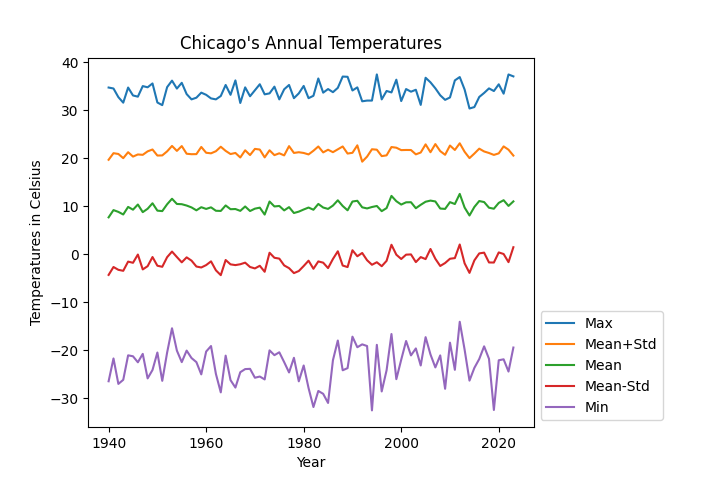
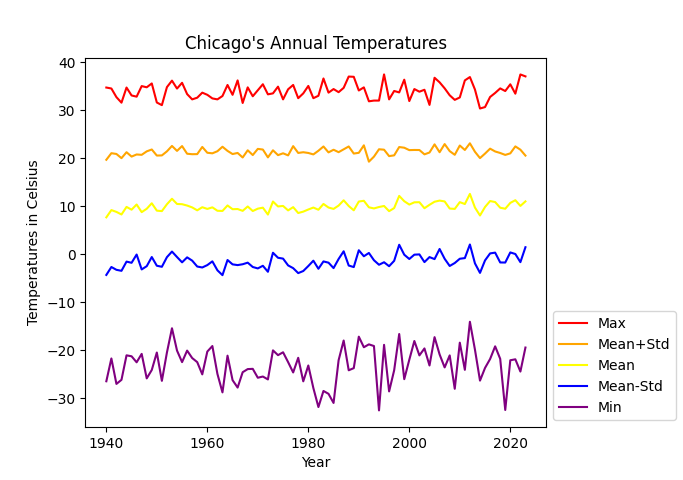
Add files via upload

diff --git a/final/view_data.py b/final/view_data.py
@@ -21,21 +21,30 @@ conn.close()
 
 annual_df = annual_df.drop('Std', axis=1)
 x = annual_df['Year']
-for column in annual_df.columns[1:]:
-    plt.plot(x, annual_df[column], linestyle='-', label=column)
+
 plt.xlabel('Year')
 plt.ylabel('Temperatures in Celsius')
 plt.title('Chicago\'s Annual Temperatures')
-plt.legend(loc='lower left', bbox_to_anchor=(1, 0))
+plt.plot(x, annual_df['Max'], color='#FF0000', label='Max') # Hot Red
+plt.plot(x, annual_df['Mean+Std'], color='#FFA500', label='Mean+Std') # Warm Orange
+plt.plot(x, annual_df['Mean'], color='#FFFF00', label='Mean') # Neutral Yellow
+plt.plot(x, annual_df['Mean-Std'], color='#0000FF', label='Mean-Std') # Cool Blue
+plt.plot(x, annual_df['Min'], color='#800080', label='Min') # Cold Purple
+plt.legend( loc='lower left', bbox_to_anchor=(1, 0))
+plt.subplots_adjust(right=0.8)
 plt.show()
 
 
 x = decadal_df['Decade']
 decadal_df = decadal_df.drop('Std', axis=1)
-for column in decadal_df.columns[1:]:
-    plt.plot(x, decadal_df[column], linestyle='-', label=column)
+plt.plot(x, decadal_df['Max'], color='#FF0000', label='Max') # Hot Red
+plt.plot(x, decadal_df['Mean+Std'], color='#FFA500', label='Mean+Std') # Warm Orange
+plt.plot(x, decadal_df['Mean'], color='#FFFF00', label='Mean') # Neutral Yellow
+plt.plot(x, decadal_df['Mean-Std'], color='#0000FF', label='Mean-Std') # Cool Blue
+plt.plot(x, decadal_df['Min'], color='#800080', label='Min') # Cold Purple
 plt.xlabel('Decade')
 plt.ylabel('Temperatures in Celsius')
 plt.title('Chicago\'s Decadal Temperatures')
 plt.legend(loc='lower left', bbox_to_anchor=(1, 0))
+plt.subplots_adjust(right=0.8)
 plt.show()
